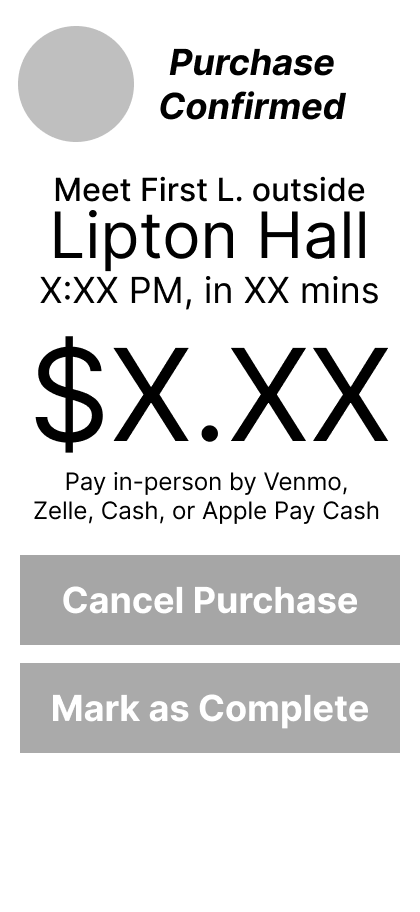
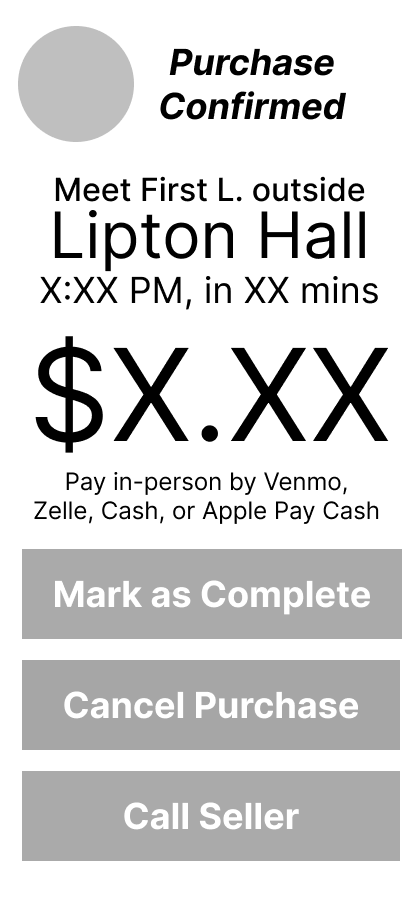
docs: add missing figma files

Changed region(s): [[0.031, 0.5833, 0.9595, 0.9518]]

diff --git a/UX-DESIGN.md b/UX-DESIGN.md
@@ -43,6 +43,14 @@ https://www.figma.com/design/RbnjNsG24SsouP9fG0YEEi/SwipeShare?node-id=0-1&t=Eht
 
 ![Create a Listing](ux-design/prototype/Create%20a%20Listing.png)
 
+### My Listings
+
+![My Listings](ux-design/prototype/My%20Listings.png)
+
+### Listing Detail
+
+![Listing Detail](ux-design/prototype/Listing%20Detail.png)
+
 ## App Map
 
 <img width="944" height="1184" alt="image" src="https://github.com/user-attachments/assets/705a66fe-152f-4e84-91fd-27f9ca554652" />
